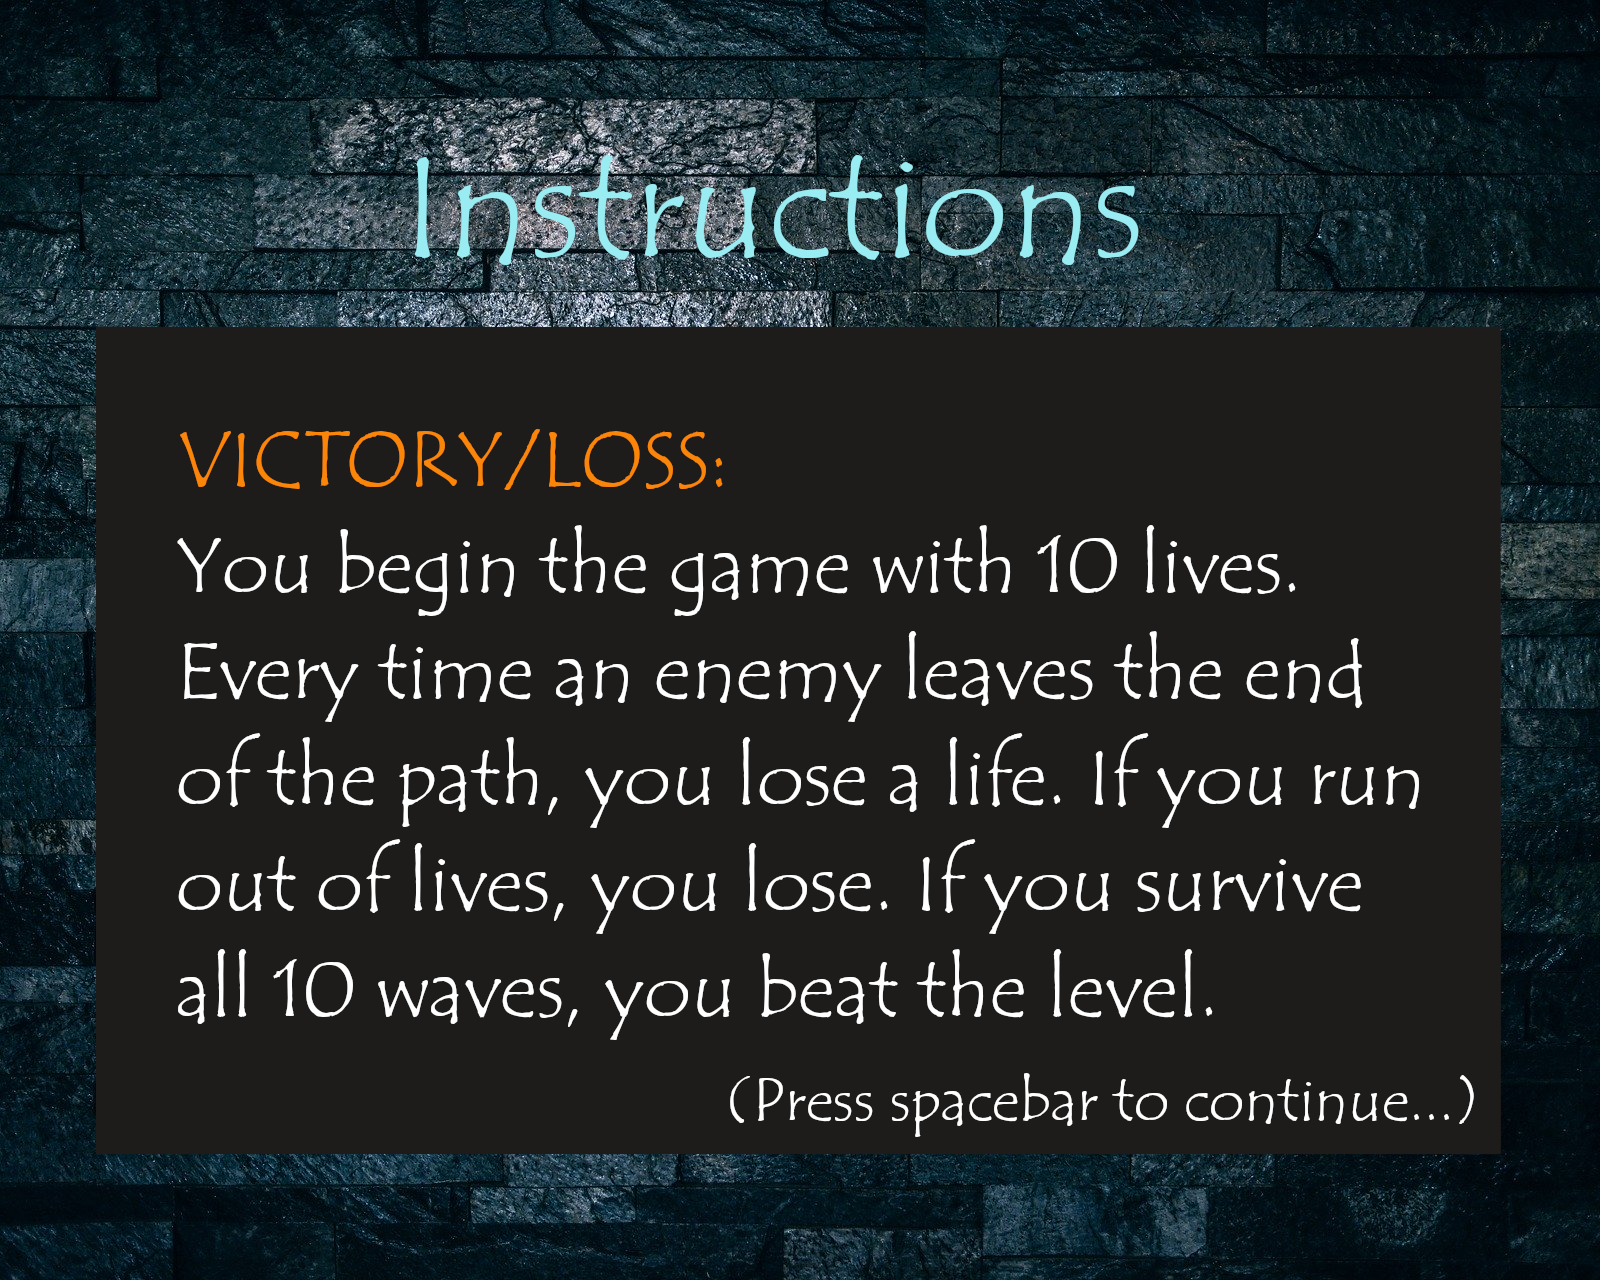
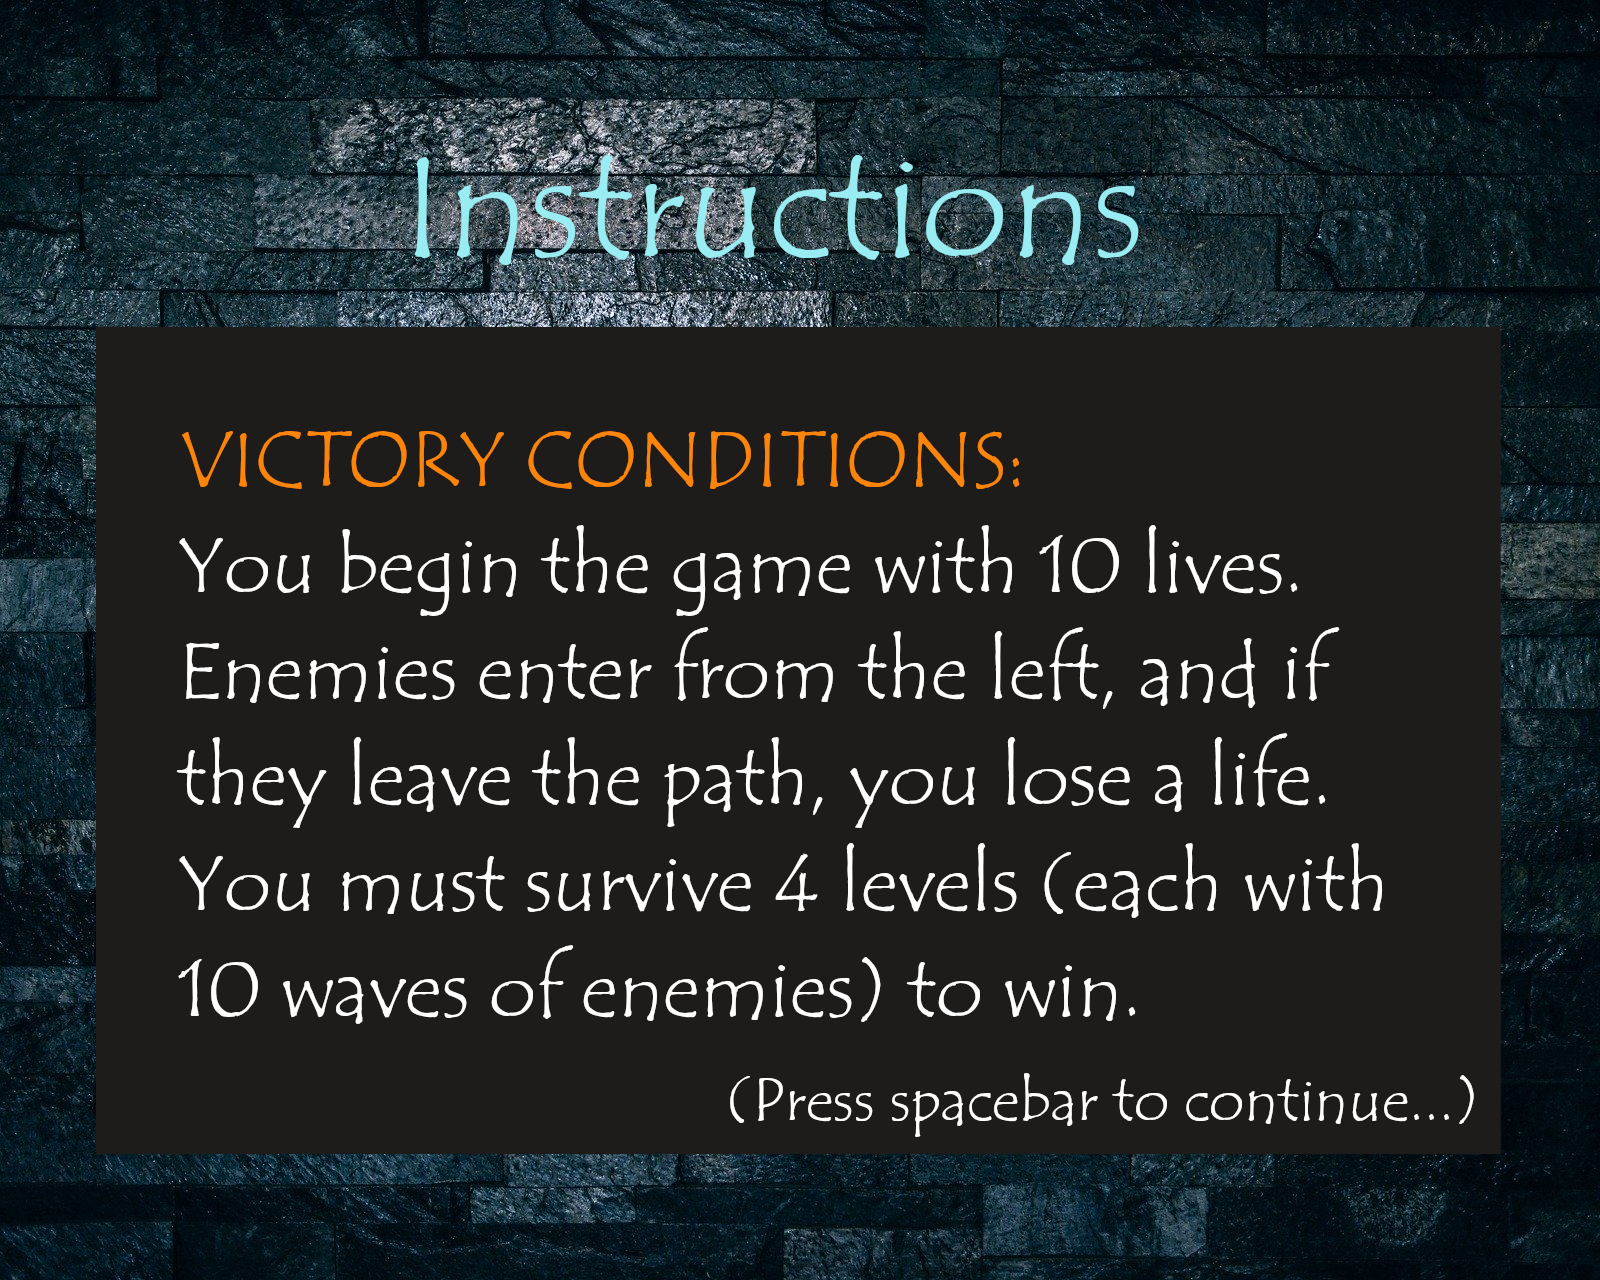
Updated instructions screen

diff --git a/js/screens/instructions.js b/js/screens/instructions.js
@@ -11,7 +11,7 @@ game.InstructionScreen = me.Stage.extend({
 	// Set necessary variables to track which screen is being shown
 	var screenNum = 1;
 	var rewinds = 0;
-	var lastScreen = 5;
+	var lastScreen = 7;
 	
 	// Play a music track, fading in
 	me.audio.play("Woodland Fantasy", true, null, 0.0);
@@ -43,9 +43,9 @@ game.InstructionScreen = me.Stage.extend({
 			instructionsImage.scale(me.game.viewport.width / instructionsImage.width, me.game.viewport.height / instructionsImage.height);
 			me.game.world.addChild(instructionsImage, screenNum + rewinds * lastScreen); 
         }
-		// Begin the game after finishing the instructions
+		// Return to the title screen after finishing the instructions
         else if (action === "space") {
-            me.state.change(me.state.PLAY);
+            me.state.change(me.state.MENU);
         }
 		// Reset to the beginning of the instruction screen images, again increasing the z-position
 		if (action === "back" && screenNum == lastScreen) {
